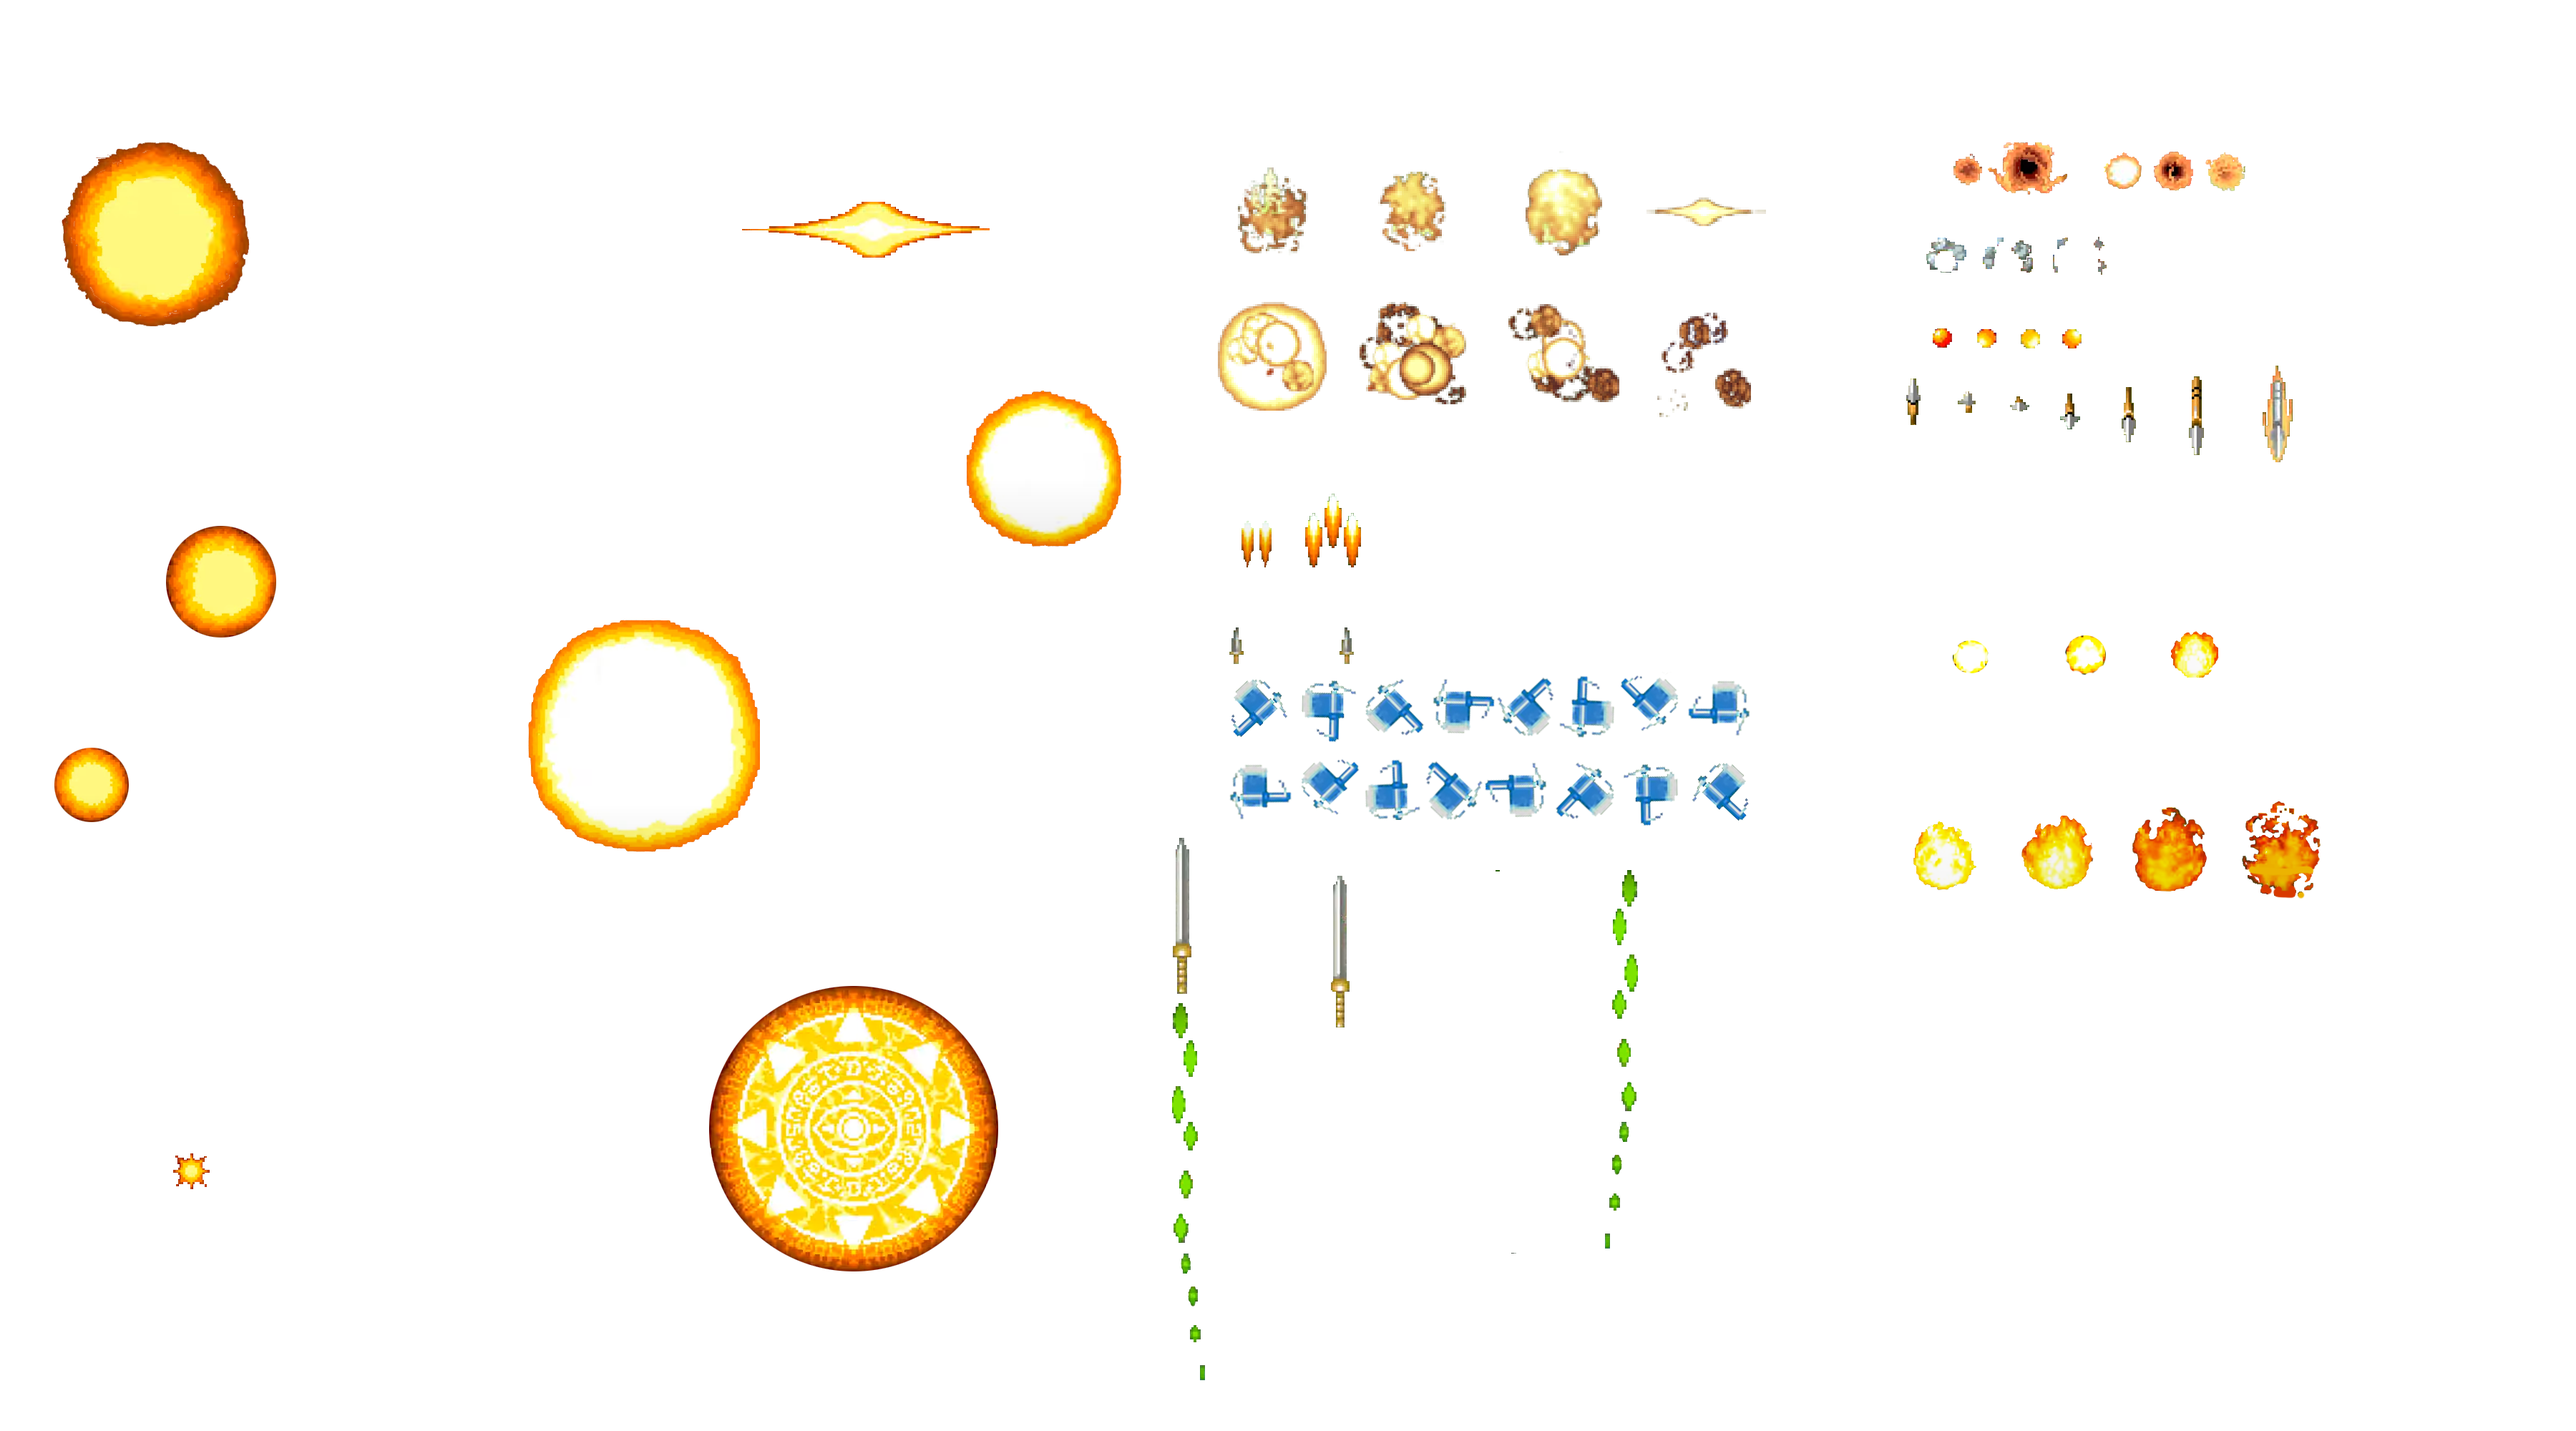
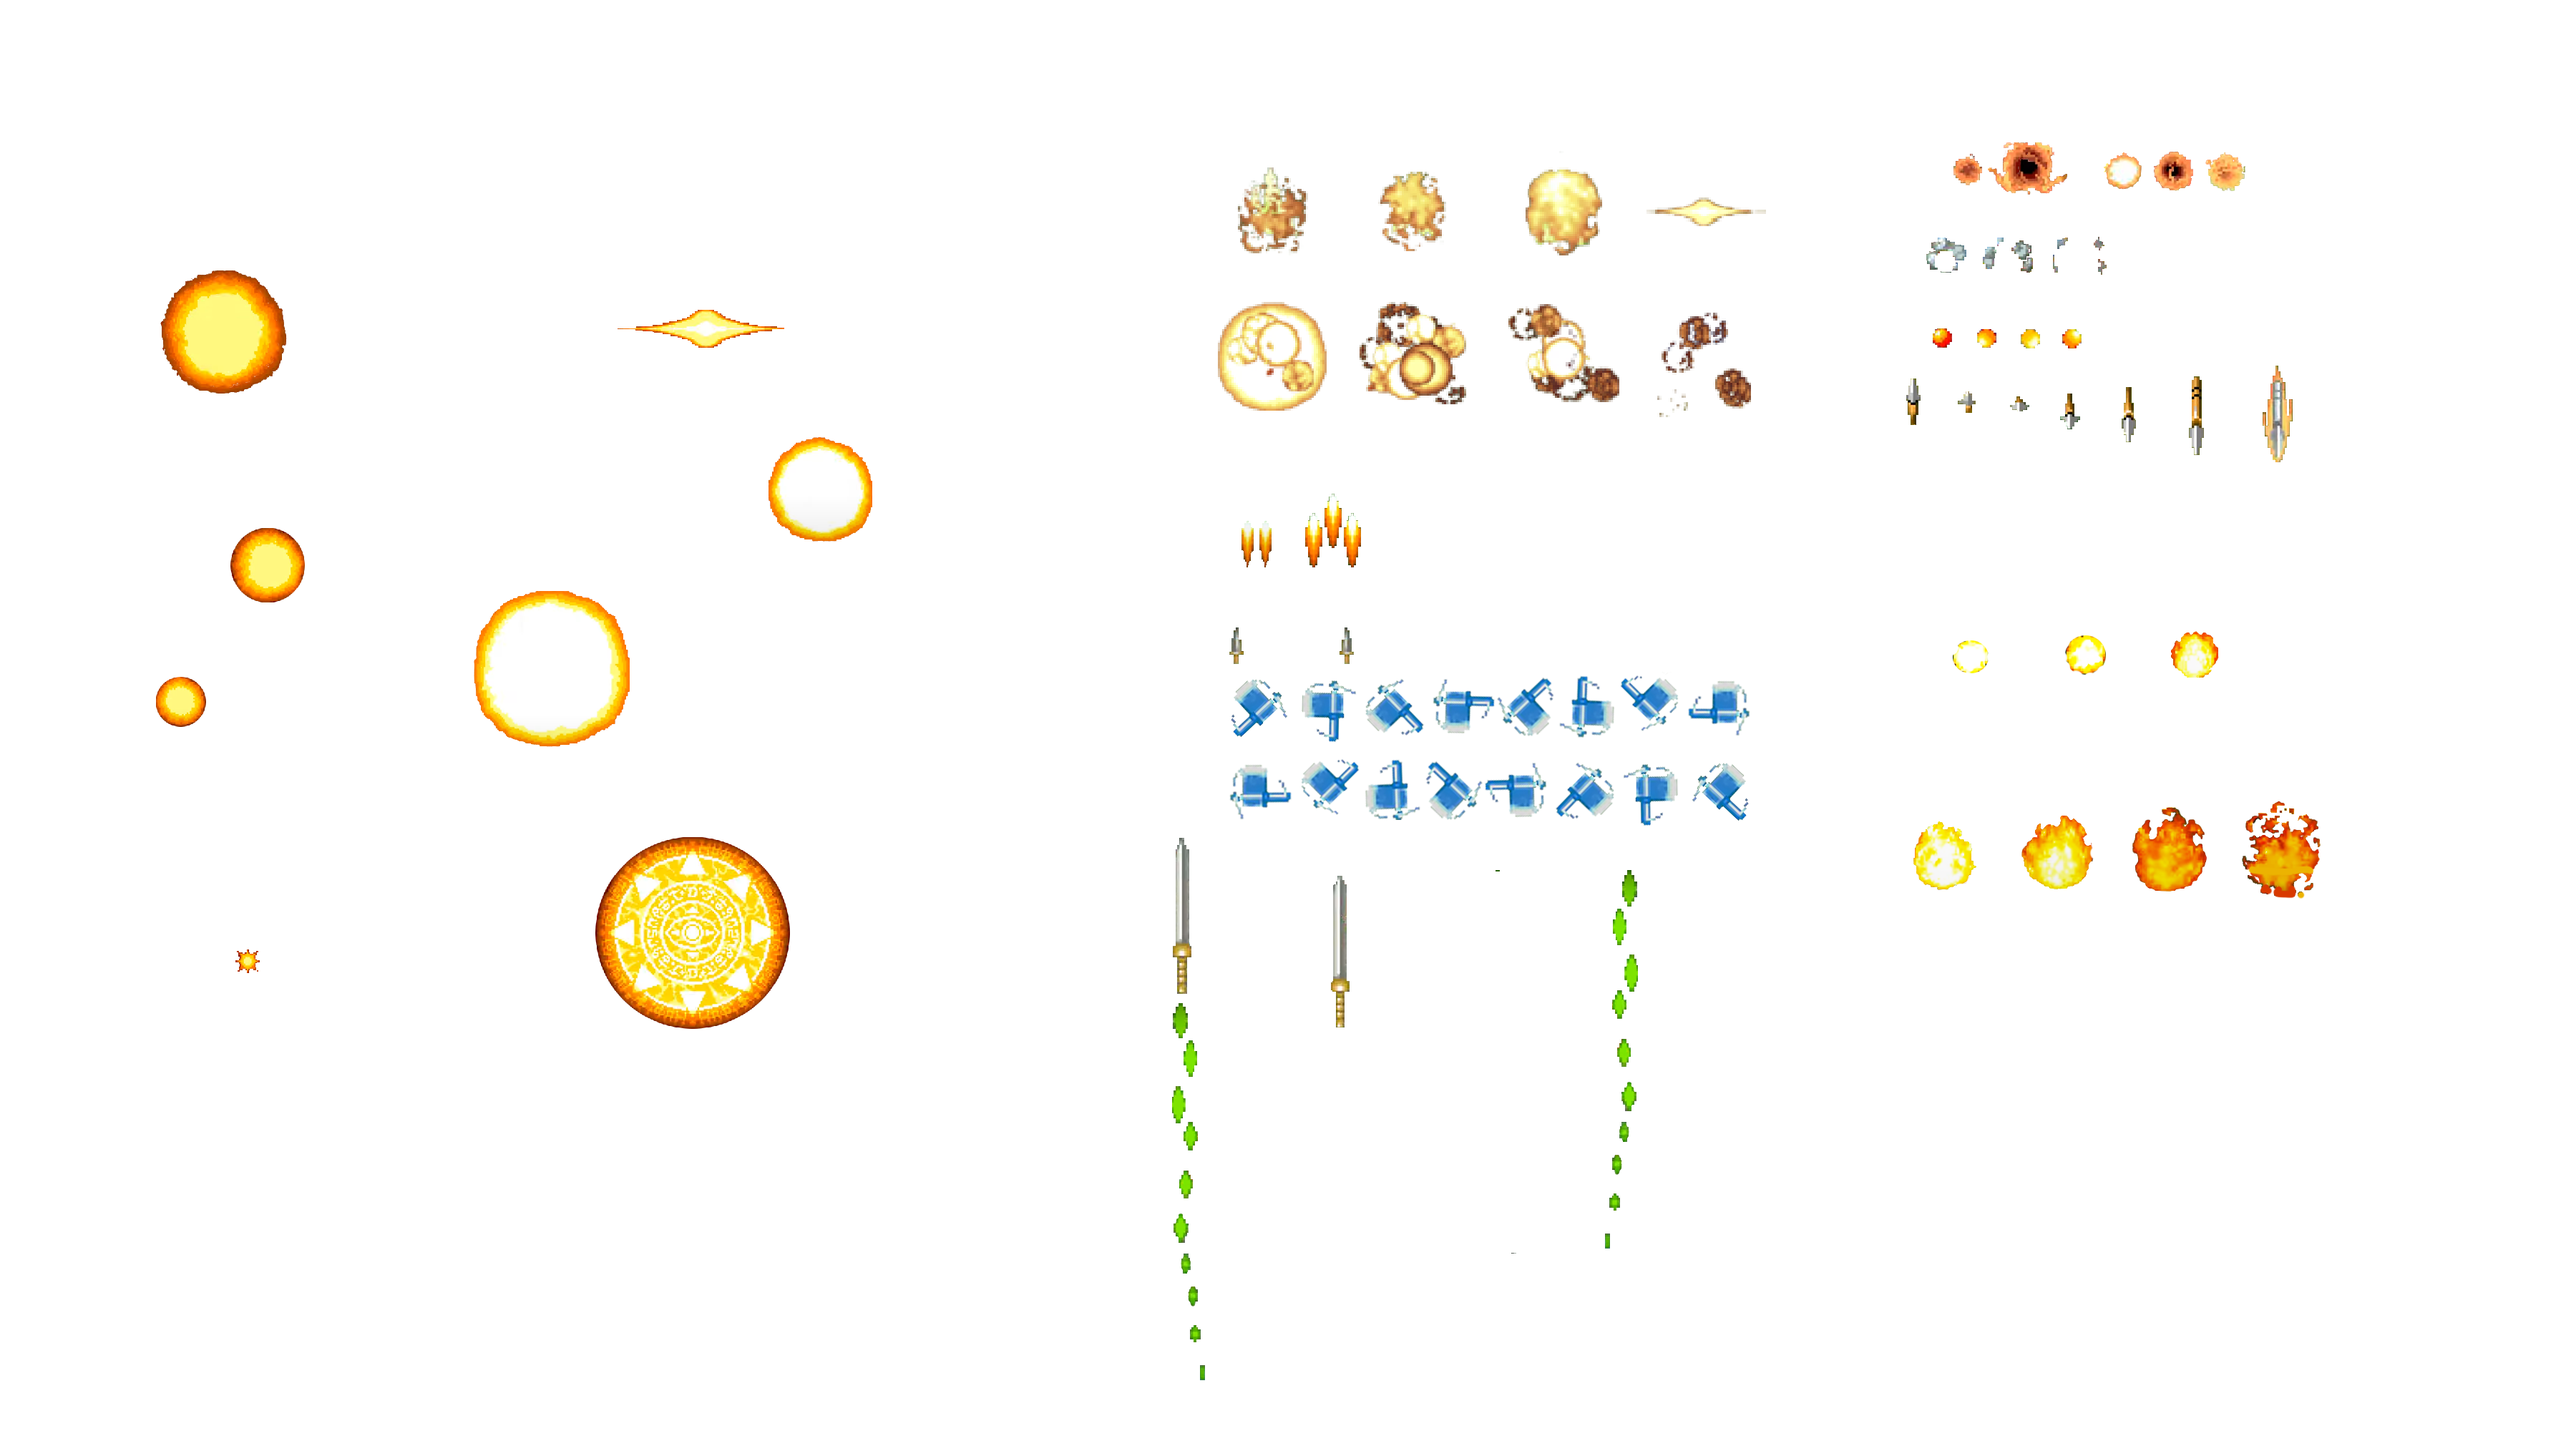
Cambios
-Cambios menores a particulas

diff --git a/Sorcer striker/Sorcer striker/Modules/Gameplay/ModulePlayer.cpp b/Sorcer striker/Sorcer striker/Modules/Gameplay/ModulePlayer.cpp
@@ -169,7 +169,7 @@ if (!stopGame) {
 			}
 			if (!Powerupblue && !Powerupgreen && !Powerupred)
 			{
-				App->particles->AddParticle(App->particles->laser1, position.x + 25, position.y, Collider::Type::PLAYER_SHOT, 0);
+				App->particles->AddParticle(App->particles->laser1, position.x + 35, position.y, Collider::Type::PLAYER_SHOT, 0);
 			}
 		}
 		if (SDL_GetTicks() - start_time >= 50)
@@ -181,29 +181,29 @@ if (!stopGame) {
 	// Spawn explosion particles when pressing B
 	if (App->input->keys[SDL_SCANCODE_B] == Key_State::KEY_DOWN || pad.x == true)
 	{
-		if (canshootbomb)
+		if (canshootbomb && bombs > 0)
 		{
 			start_time = SDL_GetTicks();
 			canshootbomb = false;
 			if (Powerupblue)
 			{
-				App->particles->AddParticle(App->particles->bomb, position.x - 100, position.y - 220, Collider::Type::PLAYER_SHOT, 0);
+				App->particles->AddParticle(App->particles->bomb, position.x-40, position.y - 130, Collider::Type::PLAYER_SHOT, 0);
 			}
 			if (Powerupred)
 			{
-				App->particles->AddParticle(App->particles->bomb, position.x - 100, position.y - 220, Collider::Type::PLAYER_SHOT, 0);
+				App->particles->AddParticle(App->particles->bomb, position.x-40 , position.y - 130, Collider::Type::PLAYER_SHOT, 0);
 			}
 			if (Powerupgreen)
 			{
-				App->particles->AddParticle(App->particles->bomb, position.x - 100, position.y - 220, Collider::Type::PLAYER_SHOT, 0);
+				App->particles->AddParticle(App->particles->bomb, position.x-40, position.y - 130, Collider::Type::PLAYER_SHOT, 0);
 			}
 			if (!Powerupblue && !Powerupgreen && !Powerupred)
 			{
-				App->particles->AddParticle(App->particles->bomb, position.x - 150, position.y - 220, Collider::Type::PLAYER_SHOT, 0);
+				App->particles->AddParticle(App->particles->bomb, position.x-85, position.y - 130, Collider::Type::PLAYER_SHOT, 0);
 			}
 			bombs--;
 		}
-		if (SDL_GetTicks()-start_time>=3000)
+		if (SDL_GetTicks()-start_time>=2000)
 		{
 			canshootbomb = true;
 		}

diff --git a/Sorcer striker/Sorcer striker/Modules/Core/ModuleParticles.cpp b/Sorcer striker/Sorcer striker/Modules/Core/ModuleParticles.cpp
@@ -50,21 +50,26 @@ bool ModuleParticles::Start() {
 	playerdead.anim.speed = 0.1f;
 	playerdead.lifetime = 80;
 
-	bomb.anim.PushBack({ 53, 1418, 424, 424 });
-	bomb.anim.PushBack({ 53, 1418, 424, 424 });
-	bomb.anim.PushBack({ 89, 600, 424, 424 });
-	bomb.anim.PushBack({ 89, 600, 424, 424 });
-	bomb.anim.PushBack({ 1002, 109, 424, 424 });
-	bomb.anim.PushBack({ 1249, 447, 424, 424 });
-	bomb.anim.PushBack({ 691, 815, 424, 424 });
-	bomb.anim.PushBack({ 691, 815, 424, 424 });
-	bomb.anim.PushBack({ 977, 1360, 424, 424 });
-	bomb.anim.PushBack({ 977, 1360, 424, 424 });
-	bomb.anim.PushBack({ 977, 1360, 424, 424 });
-	bomb.anim.PushBack({ 977, 1360, 424, 424 });
+	bomb.anim.PushBack({ 199, 1185, 287, 278 });
+	bomb.anim.PushBack({ 199, 1185, 287, 278 });
+	bomb.anim.PushBack({ 227, 649, 287, 278 });
+	bomb.anim.PushBack({ 227, 649, 287, 278 });
+	bomb.anim.PushBack({ 163, 327, 287, 278});
+	bomb.anim.PushBack( {841, 313, 287, 278 });
+	bomb.anim.PushBack({ 1003, 551, 287, 278 });
+	bomb.anim.PushBack({ 631, 793 , 287, 278 });
+	bomb.anim.PushBack({ 829, 1161, 287, 278 });
+	bomb.anim.PushBack({ 829, 1161, 287, 278 });
+	bomb.anim.PushBack({ 829, 1161, 287, 278 });
+	bomb.anim.PushBack({ 829, 1161, 287, 278 });
+	bomb.anim.PushBack({ 829, 1161, 287, 278 });
+	bomb.anim.PushBack({ 829, 1161, 287, 278 });
+	bomb.anim.PushBack({ 829, 1161, 287, 278 });
+	bomb.anim.PushBack({ 829, 1161, 287, 278 });
+	bomb.anim.PushBack({ 829, 1161, 287, 278 });
 	bomb.speed = iPoint(0, -23);
-	bomb.anim.speed = 0.2f;
-	bomb.lifetime = 60;
+	bomb.anim.speed = 0.15f;
+	bomb.lifetime = 100;
 	bomb.pendingToDelete = false;
 
 	//Powe up atacks

diff --git a/Sorcer striker/Sorcer striker/Modules/Gameplay/ModulePlayer.h b/Sorcer striker/Sorcer striker/Modules/Gameplay/ModulePlayer.h
@@ -40,7 +40,7 @@ public:
 	int bombs = 3;
 	bool godMode = false;
 
-	bool Powerupblue = false;
+	bool Powerupblue = true;
 	bool Powerupred = false;
 	bool Powerupgreen = false;
 
